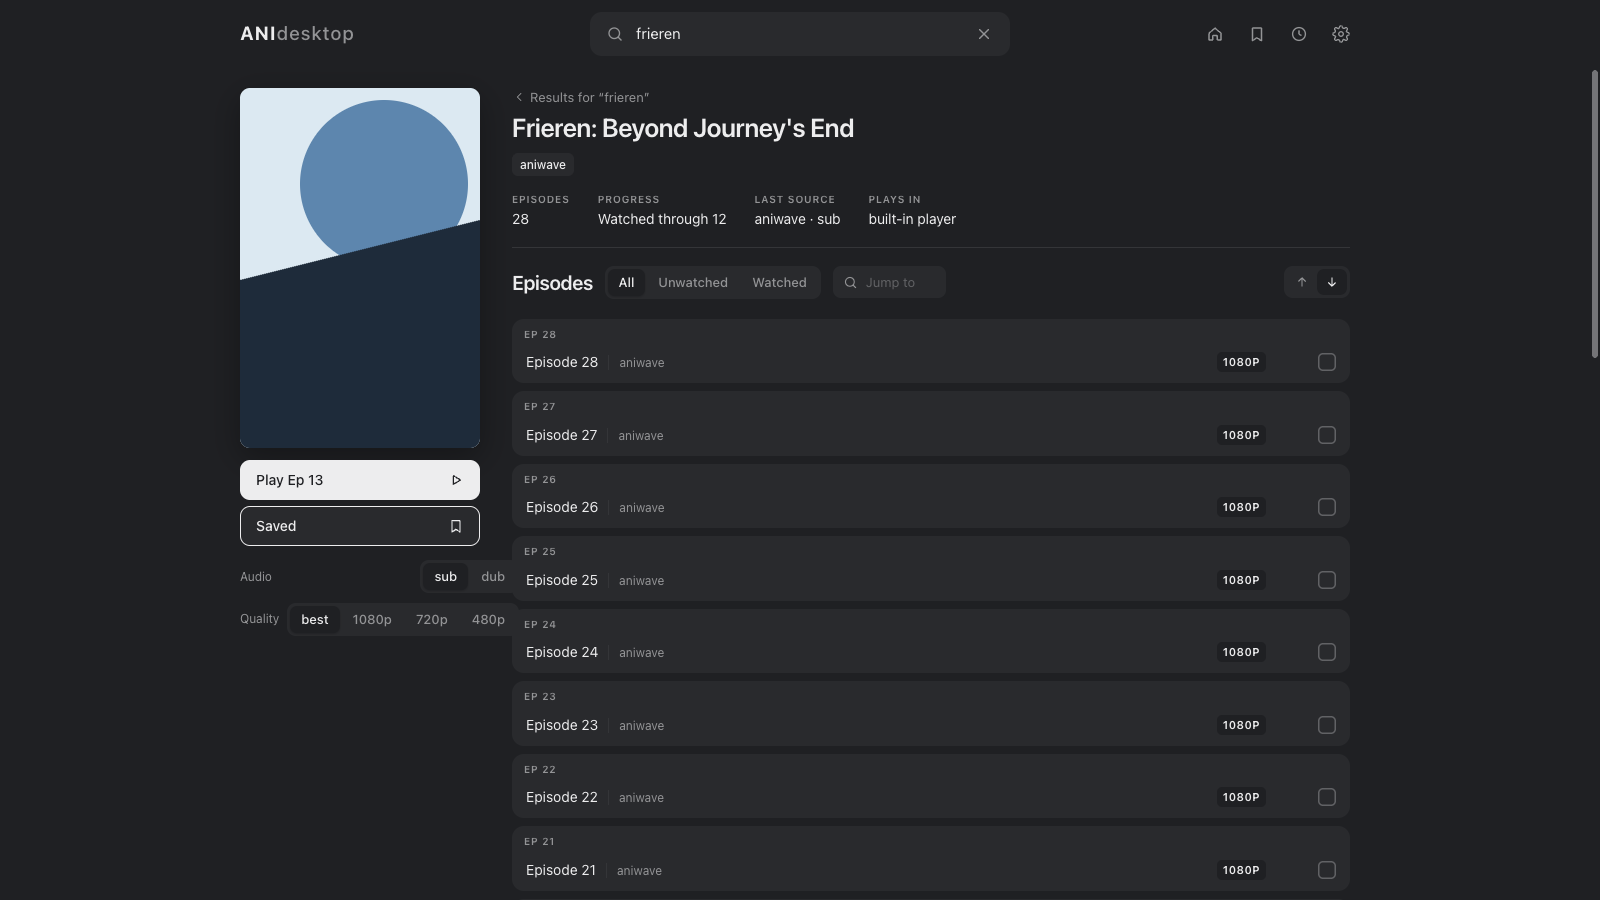
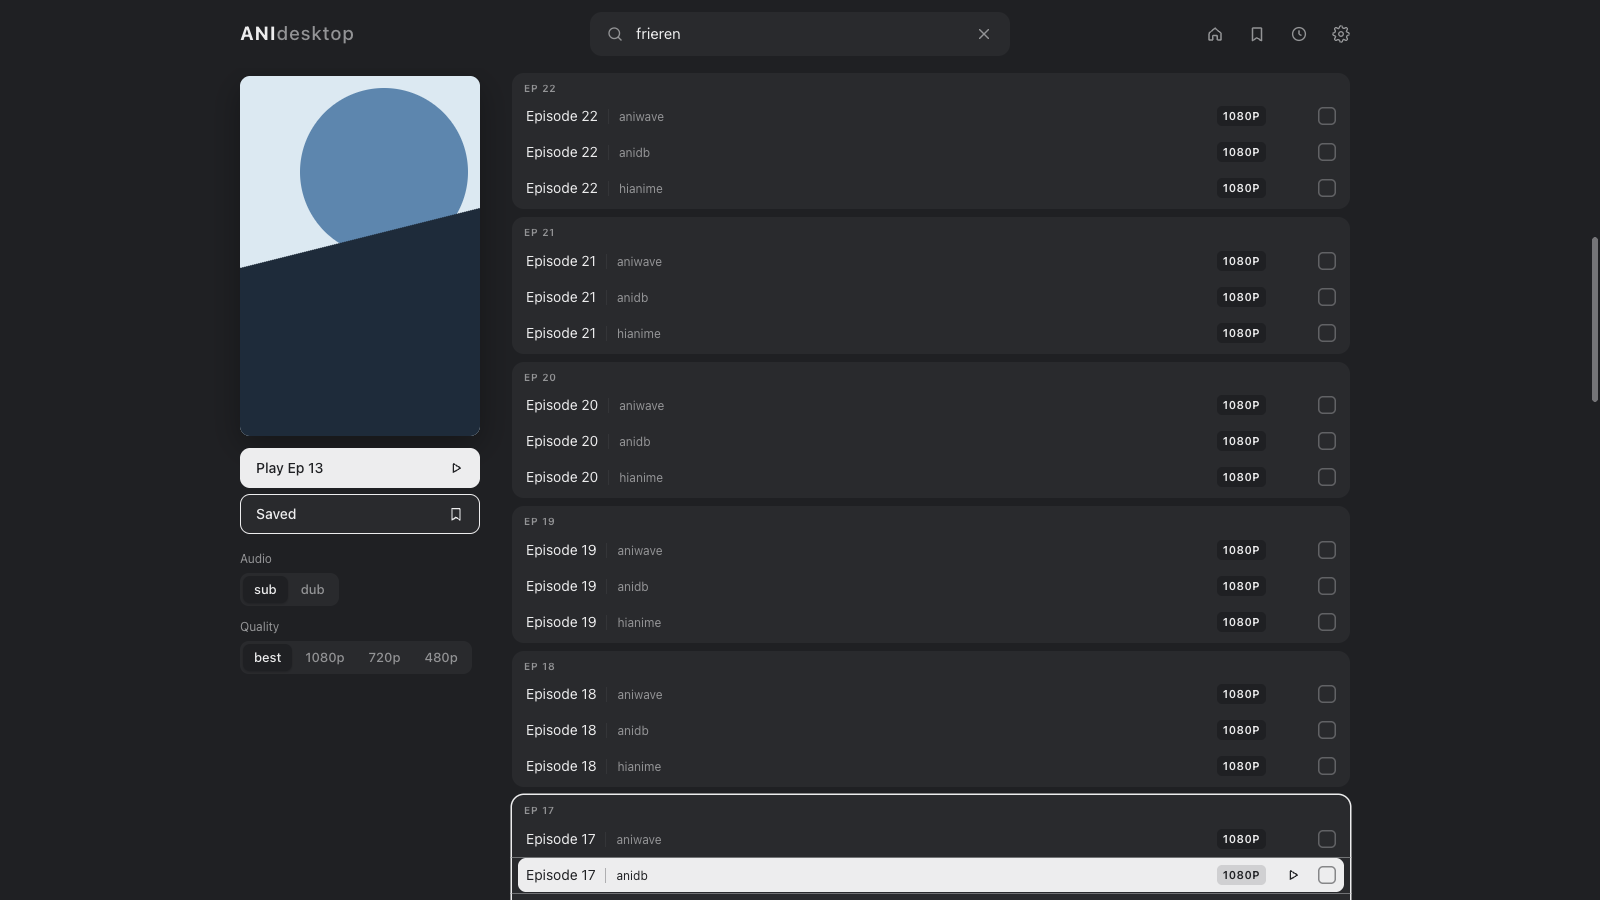
Keep next-up episode tied to playback progress
- Preserve cursor position when changing episode filters or sort order
- Refresh desktop screenshots and add regression coverage

diff --git a/desktop-app/src/App.tsx b/desktop-app/src/App.tsx
@@ -633,6 +633,15 @@ function App() {
     }
   }
 
+  // Changing the order or filter keeps the selection on the same row when it is still shown.
+  function reorder(filter: EpisodeFilter, sort: EpisodeSort) {
+    const id = episodeRows[cursor]?.episode.id;
+    const next = episodeRowsOf(episodeGroups, progress, filter, sort);
+    setEpisodeFilter(filter); setEpisodeSort(sort);
+    const index = id ? next.findIndex((row) => row.episode.id === id) : -1;
+    setCursor(index >= 0 ? index : 0);
+  }
+
   function jumpTo(value: string) {
     setJump(value);
     const wanted = value.trim();
@@ -799,7 +808,12 @@ function App() {
     : undefined;
 
   const nextRow = episodeRows[cursor];
-  const nextUp = episodeRows.find((row) => !row.watched && (nextRow ? row.number === nextRow.number : true)) ?? nextRow;
+  // Next up follows progress, not the cursor: the episode after the last one watched on the provider used last.
+  const nextUp = useMemo(() => {
+    const all = episodeRowsOf(episodeGroups, progress, "all", "oldest");
+    const row = all[nextUpIndex(all, episodeGroups, progress, progress?.lastProvider ?? selectedAnime?.provider ?? "aniwave")];
+    return row ? all.find((item) => !item.watched && item.number === row.number) ?? row : undefined;
+  }, [episodeGroups, progress, selectedAnime]);
   const navIcon = (target: Screen, name: "home" | "bookmark" | "clock" | "gear", text: string) => (
     <button type="button" className={screen === target ? "on" : ""} title={text} onClick={() => go(target)}><Icon name={name} /><span className="sr-only">{text}</span></button>
   );
@@ -946,11 +960,11 @@ function App() {
               ))}
               <div className="ep-head">
                 <h2>Episodes</h2>
-                <Chips value={episodeFilter} options={["all", "unwatched", "watched"] as const} onChange={(value) => { setEpisodeFilter(value); setCursor(0); }} names={{ all: "All", unwatched: "Unwatched", watched: "Watched" }} />
+                <Chips value={episodeFilter} options={["all", "unwatched", "watched"] as const} onChange={(value) => reorder(value, episodeSort)} names={{ all: "All", unwatched: "Unwatched", watched: "Watched" }} />
                 <label className="jump"><Icon name="search" /><input value={jump} onChange={(event) => jumpTo(event.target.value)} placeholder="Jump to" aria-label="Jump to episode" inputMode="numeric" /></label>
                 <span className="sort" role="radiogroup" aria-label="Sort">
-                  <button type="button" role="radio" aria-checked={episodeSort === "oldest"} className={episodeSort === "oldest" ? "on" : ""} title="Oldest first" onClick={() => { setEpisodeSort("oldest"); setCursor(0); }}><Icon name="up" /></button>
-                  <button type="button" role="radio" aria-checked={episodeSort === "newest"} className={episodeSort === "newest" ? "on" : ""} title="Newest first" onClick={() => { setEpisodeSort("newest"); setCursor(0); }}><Icon name="down" /></button>
+                  <button type="button" role="radio" aria-checked={episodeSort === "oldest"} className={episodeSort === "oldest" ? "on" : ""} title="Oldest first" onClick={() => reorder(episodeFilter, "oldest")}><Icon name="up" /></button>
+                  <button type="button" role="radio" aria-checked={episodeSort === "newest"} className={episodeSort === "newest" ? "on" : ""} title="Newest first" onClick={() => reorder(episodeFilter, "newest")}><Icon name="down" /></button>
                 </span>
               </div>
               <div className="eps" ref={listRef} tabIndex={-1} role="group" aria-label="Episodes">

diff --git a/desktop-app/tests/search.test.tsx b/desktop-app/tests/search.test.tsx
@@ -285,6 +285,26 @@ describe("live catalog search", () => {
     }) }) }));
   });
 
+  it("marks next up from progress regardless of the cursor, sort, or filter", async () => {
+    const state = await api.getState();
+    state.history = [{ animeId: "aniwave:frieren-1", title: "frieren", lastEpisode: "7", mode: "sub", updatedAt: "", completed: false,
+      lastProvider: "aniwave", progressByProvider: { aniwave: { lastEpisode: "7", mode: "sub", updatedAt: "", completed: false } } }];
+    vi.mocked(api.episodes).mockResolvedValue({ groups: [{ provider: "aniwave", episodes: Array.from({ length: 9 }, (_, index) => ({ id: `ep-${index + 1}`, number: String(index + 1), provider: "aniwave" as const })) }] });
+    await act(async () => { root.render(<StrictMode><App key="progress" /></StrictMode>); });
+    await type("frieren"); await advance(); await press("Enter");
+    const nextUp = () => container.querySelector(".grp-head .up")?.parentElement?.textContent;
+    const cursorRow = () => container.querySelector('.eps [data-cursor="true"] .src-hit')?.textContent;
+    const playButton = () => [...container.querySelectorAll<HTMLButtonElement>(".series .side .btn")][0].textContent;
+    expect(nextUp()).toBe("Ep 7Next up"); expect(cursorRow()).toBe("Episode 7aniwave"); expect(playButton()).toBe("Play Ep 7");
+    await press("ArrowUp"); expect(cursorRow()).toBe("Episode 8aniwave");
+    expect(nextUp()).toBe("Ep 7Next up"); expect(playButton()).toBe("Play Ep 7");
+    await act(async () => { container.querySelector<HTMLButtonElement>('[title="Oldest first"]')!.click(); });
+    expect(cursorRow()).toBe("Episode 8aniwave"); expect(nextUp()).toBe("Ep 7Next up");
+    await act(async () => { [...container.querySelectorAll("button")].find((node) => node.textContent === "Watched")!.click(); });
+    expect(nextUp()).toBeUndefined(); expect(playButton()).toBe("Play Ep 7");
+    expect([...container.querySelectorAll(".eps .src-hit")].map((node) => node.textContent)).toEqual(["Episode 1aniwave", "Episode 2aniwave", "Episode 3aniwave", "Episode 4aniwave", "Episode 5aniwave", "Episode 6aniwave"]);
+  });
+
   it("looks the series up on the other providers and merges their episodes into the grouped list", async () => {
     const pending = deferred<AnimeResult>();
     vi.mocked(api.resolveSources).mockReturnValueOnce(pending.promise);

diff --git a/desktop-app/src/styles.css b/desktop-app/src/styles.css
@@ -173,8 +173,9 @@ kbd { font: 11px/1 ui-monospace, SFMono-Regular, Menlo, monospace; color: var(--
 .series .side .poster { width: 100%; aspect-ratio: 2 / 3; border-radius: var(--radius); box-shadow: 0 10px 30px rgb(0 0 0 / 30%); }
 .series .side .stack { display: grid; gap: 6px; margin-top: 12px; }
 .series .side .stack .btn { width: 100%; justify-content: space-between; height: 40px; }
-.series .side .prefs { display: grid; gap: 10px; margin-top: 14px; }
-.series .side .prefs .chips-row { justify-content: space-between; }
+.series .side .prefs { display: grid; gap: 12px; margin-top: 16px; }
+.series .side .prefs .chips-row { display: grid; gap: 6px; justify-items: start; }
+.series .side .prefs .chips { flex-wrap: wrap; max-width: 100%; }
 .series .main { min-width: 0; }
 .series .crumb { color: var(--muted); font-size: 13px; display: flex; align-items: center; gap: 4px; }
 .series .crumb:hover { color: var(--text); }
